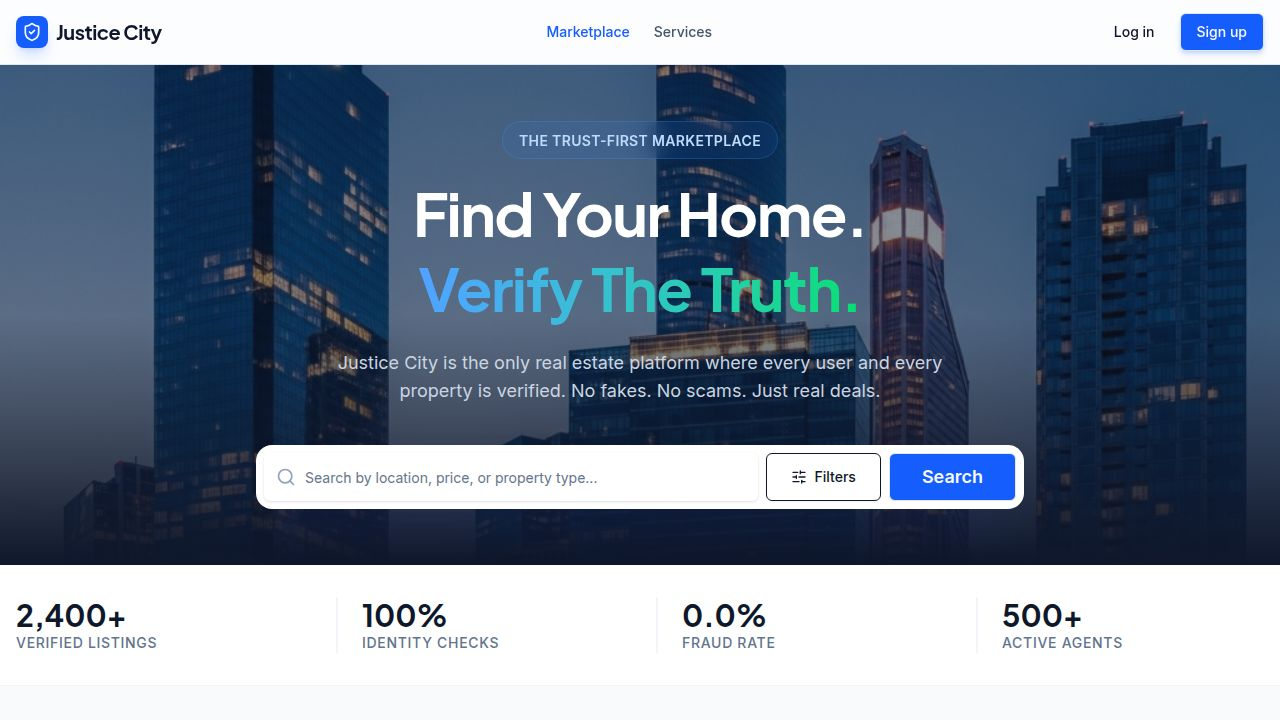
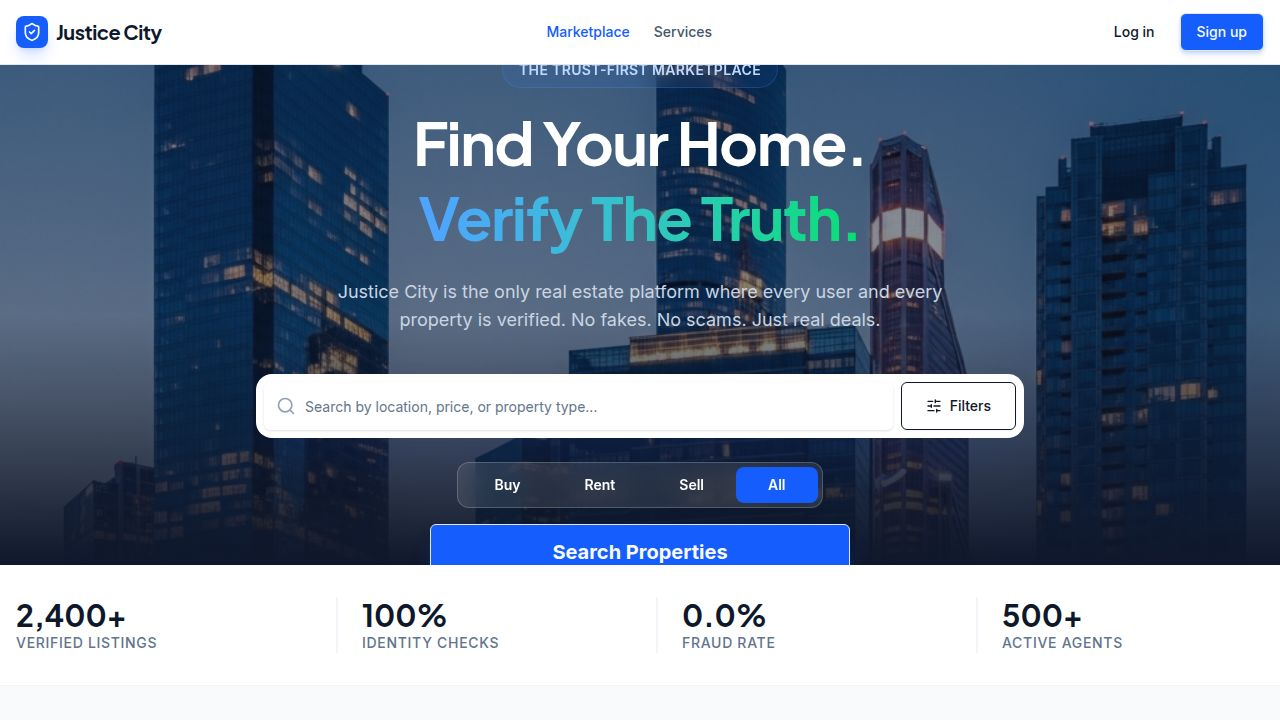
Update homepage search bar with centered property type selectors
Refactors the homepage search bar in `home.tsx` to include centered "Buy", "Rent", "Sell", "All" buttons above a stretched "Search Properties" button, incorporating backdrop blur and hover effects.

Replit-Commit-Author: Agent
Replit-Commit-Session-Id: cae48fa0-ff09-4a7a-985d-5c8f65d8e4aa
Replit-Commit-Checkpoint-Type: full_checkpoint
Replit-Commit-Event-Id: a3bedd6a-8ac7-4f0d-acad-da09b5e40f50
Replit-Commit-Screenshot-Url: https://storage.googleapis.com/screenshot-production-us-central1/a1fb64eb-e23a-4f6e-8822-5dd171d551e7/cae48fa0-ff09-4a7a-985d-5c8f65d8e4aa/04sTvtj
Replit-Helium-Checkpoint-Created: true

diff --git a/client/src/pages/home.tsx b/client/src/pages/home.tsx
@@ -44,23 +44,39 @@ export default function Home() {
           </p>
 
           {/* Search Bar */}
-          <div className="max-w-3xl mx-auto bg-white p-2 rounded-2xl shadow-2xl shadow-blue-900/20 flex flex-col md:flex-row gap-2">
-            <div className="relative flex-1">
-              <Search className="absolute left-3 top-1/2 -translate-y-1/2 w-5 h-5 text-slate-400" />
-              <Input 
-                placeholder="Search by location, price, or property type..." 
-                className="pl-10 h-12 border-transparent bg-transparent focus-visible:ring-0 text-base"
-                value={searchTerm}
-                onChange={(e) => setSearchTerm(e.target.value)}
-              />
+          <div className="max-w-3xl mx-auto flex flex-col gap-6">
+            <div className="bg-white p-2 rounded-2xl shadow-2xl shadow-blue-900/20 flex flex-col md:flex-row gap-2">
+              <div className="relative flex-1">
+                <Search className="absolute left-3 top-1/2 -translate-y-1/2 w-5 h-5 text-slate-400" />
+                <Input 
+                  placeholder="Search by location, price, or property type..." 
+                  className="pl-10 h-12 border-transparent bg-transparent focus-visible:ring-0 text-base"
+                  value={searchTerm}
+                  onChange={(e) => setSearchTerm(e.target.value)}
+                />
+              </div>
+              <div className="flex gap-2">
+                <Button variant="outline" size="lg" className="h-12 px-6 hidden md:flex gap-2">
+                  <SlidersHorizontal className="w-4 h-4" />
+                  Filters
+                </Button>
+              </div>
             </div>
-            <div className="flex gap-2">
-              <Button variant="outline" size="lg" className="h-12 px-6 hidden md:flex gap-2">
-                <SlidersHorizontal className="w-4 h-4" />
-                Filters
-              </Button>
-              <Button size="lg" className="h-12 px-8 bg-blue-600 hover:bg-blue-700 font-semibold text-lg">
-                Search
+
+            <div className="flex flex-col items-center gap-4">
+              <div className="flex items-center justify-center bg-white/10 backdrop-blur-md p-1 rounded-xl border border-white/20">
+                {["Buy", "Rent", "Sell", "All"].map((type) => (
+                  <button
+                    key={type}
+                    className="px-8 py-2 rounded-lg text-sm font-semibold transition-all hover:bg-white/10 text-white data-[active=true]:bg-blue-600 data-[active=true]:text-white"
+                    data-active={type === "All"}
+                  >
+                    {type}
+                  </button>
+                ))}
+              </div>
+              <Button size="lg" className="h-14 w-full md:w-[420px] bg-blue-600 hover:bg-blue-700 font-bold text-xl shadow-xl shadow-blue-600/30 transition-all hover:scale-[1.02] active:scale-[0.98]">
+                Search Properties
               </Button>
             </div>
           </div>
